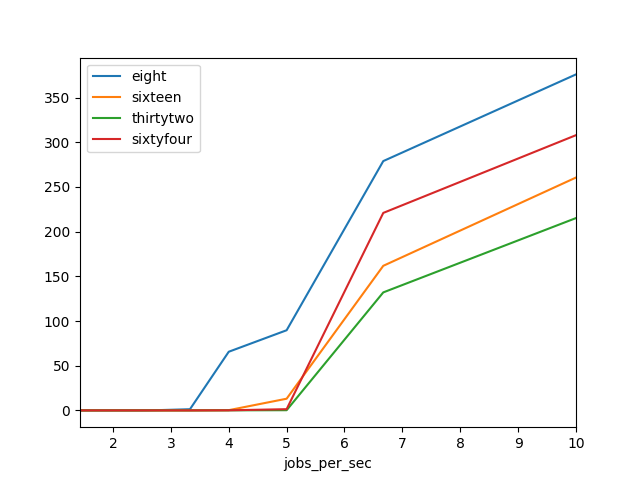
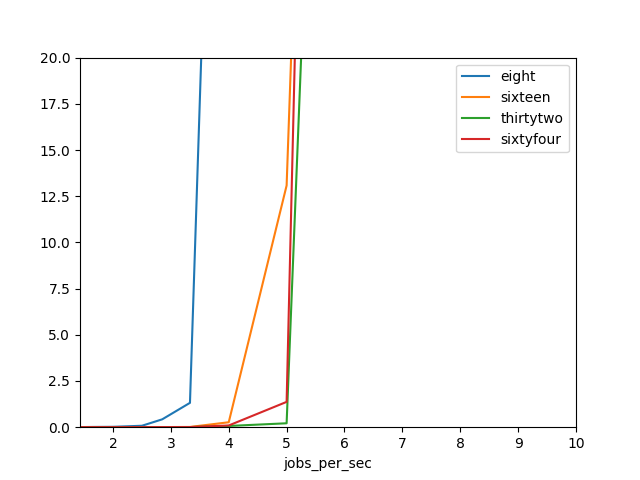
added figures

diff --git a/cpu_load/figures/draw_figures.py b/cpu_load/figures/draw_figures.py
@@ -7,9 +7,19 @@ import pandas as pd
 # fig = line.get_figure()
 # fig.savefig('jobtime-workers.png')
 
-df = pd.read_csv('average_queue_time.csv')
+
+# df = pd.concat([
+#     pd.read_csv('average_job_time.csv'),
+#     pd.read_csv('average_queue_time.csv')
+# ])
+#
+# result=df.groupby('jobs_per_sec', as_index=False).sum()
+#
+# result.to_csv('average_service_time.csv')
+
+df = pd.read_csv('average_service_time.csv')
 # df['arrival_time'] = pd.to_datetime(df['arrival_time'], unit='s')
 print(df.head())
-line = df.drop(['twentyfour'], axis=1).plot(x='jobs_per_sec', y=['eight', 'sixteen', 'thirtytwo', 'sixtyfour'])
+line = df.drop(['twentyfour'], axis=1).plot(x='jobs_per_sec', y=['eight', 'sixteen', 'thirtytwo', 'sixtyfour'], ylim=(0,20))
 fig = line.get_figure()
-fig.savefig('queuetime-workers.png')
+fig.savefig('servicetime-workers.png')

diff --git a/cpu_load/generated_data/data-16-10-400-1d2/draw_figures.py b/cpu_load/generated_data/data-16-10-400-1d2/draw_figures.py
@@ -1,0 +1,10 @@
+import pandas as pd
+
+df = pd.read_csv('data-16-10-400-1d2.csv')
+# df['arrival_time'] = pd.to_datetime(df['arrival_time'], unit='s')
+print(df.head())
+line = df.drop(['twentyfour'], axis=1).plot(x='jobs_per_sec', y=['eight', 'sixteen', 'thirtytwo', 'sixtyfour'])
+fig = line.get_figure()
+fig.savefig('jobtime-workers.png')
+
+
